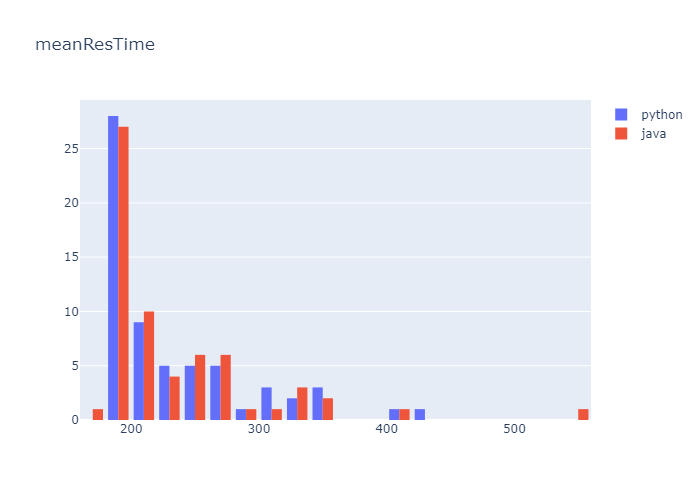
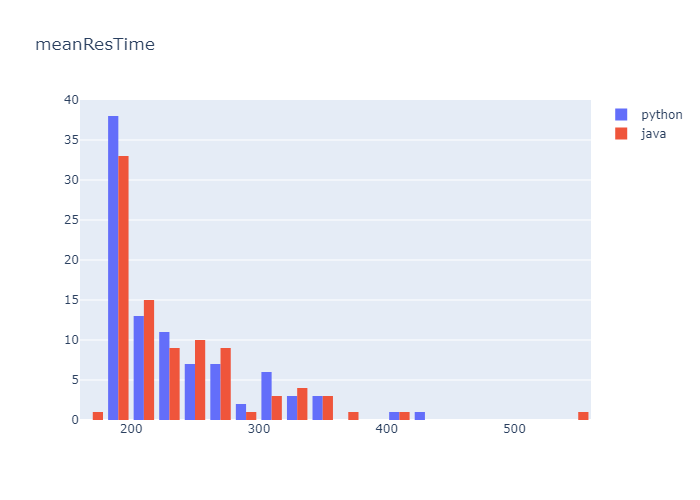
refactor and fix typos

diff --git a/README.md b/README.md
@@ -171,7 +171,7 @@ Both scripts save the results in HTML format in a new folder named by the date o
 To keep the results after the docker execution, I mounted the directory  `c:\benchmark` to the outputs directory
 
 
-The final execution flow is to run a python test and then a java test periodically, in total **63** test of each had been executed with the following configurations:
+The final execution flow is to run a python test and then a java test periodically, in total **91** test of each had been executed with the following configurations:
 - HOW_MANY_THREADS=500
 - RAMP_UP=10
 - DURATION=600
@@ -247,6 +247,7 @@ For each of the measurements, the effect size was calculated using [Cohen's d](h
 <br/>
 <br/>
 <br/>
+
 #### throughput:
 
 <div style="text-align:left">
